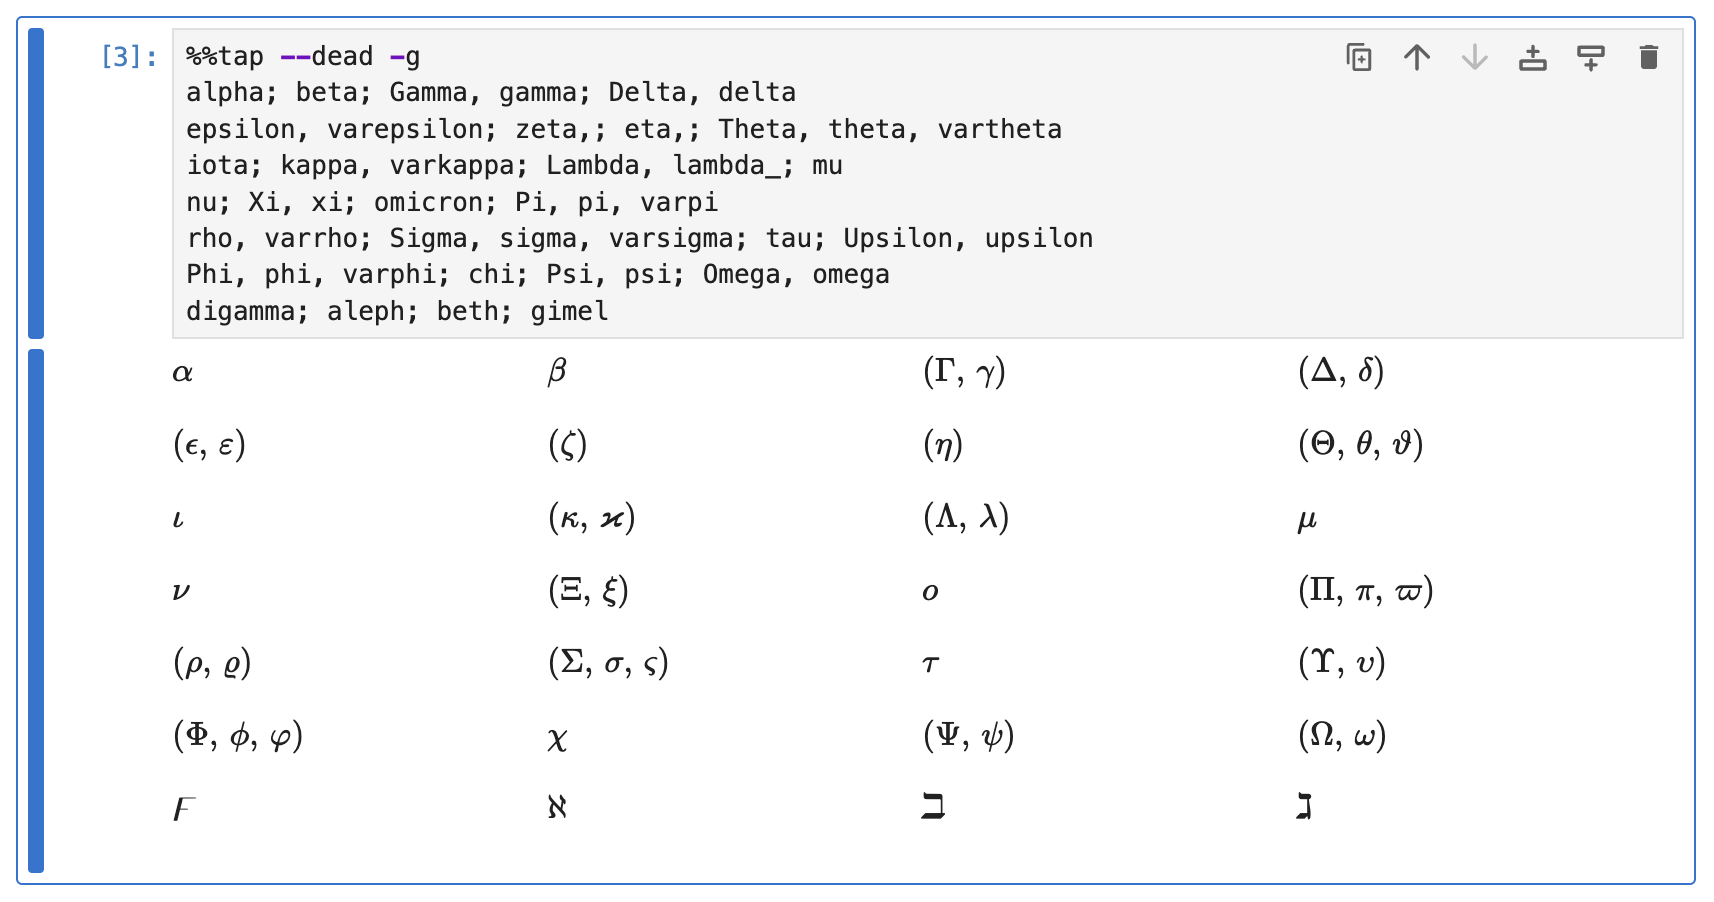
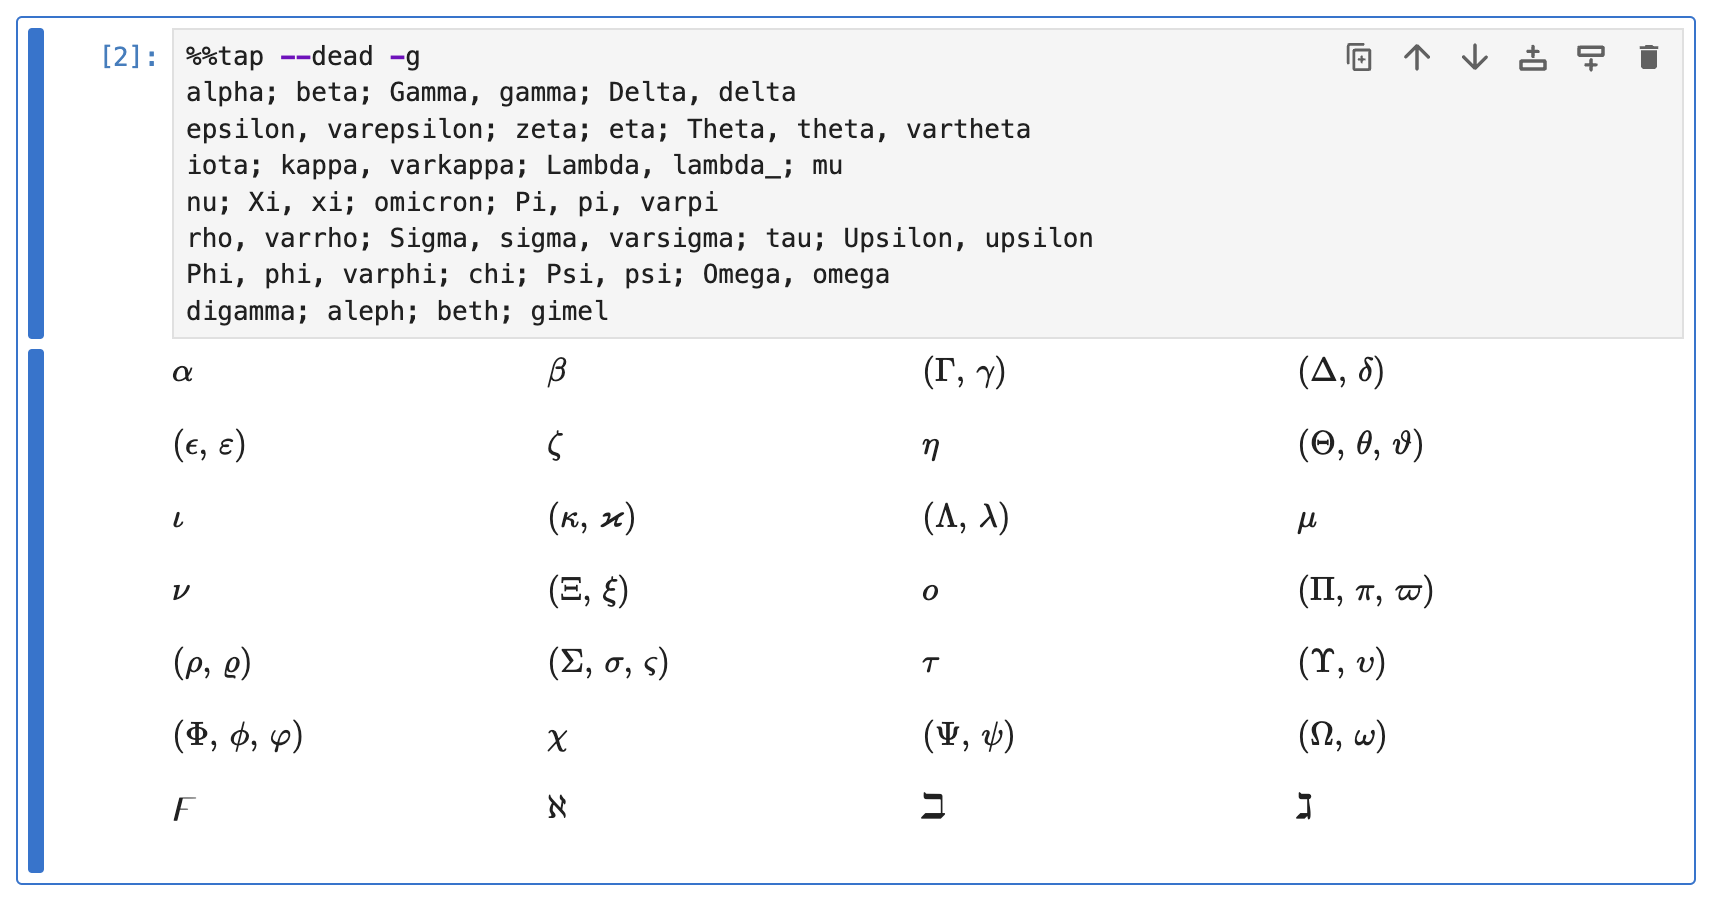
docs(rendering): update variables guide
included attribute access section
updated typos and screenshots
added example usage of config.add_greek_start()

diff --git a/docs/rendering/variables.md b/docs/rendering/variables.md
@@ -51,7 +51,7 @@ When `@use_symbols=True`, Greek letters, accents, and modifier keywords are rend
 
 ### Greek Letters
 
-Python variable name parts that match Greek or Hebrew letter names are replaced with their corresponding symbols. For example, `alpha` becomes $\alpha$, and `Omega` becomes $\Omega$. Note that capital Greek letters resembling Latin letters (e.g., $\Alpha$) are excluded to avoid ambiguity.
+Python variable name parts that match Greek or Hebrew letter names are replaced with their corresponding symbols. For example, `alpha` becomes $\alpha$, and `Omega` becomes $\Omega$. Note that capital Greek letters resembling Latin letters (e.g., A, B, etc.) are excluded.
 
 ```python
 %%tap --dead -g
@@ -69,7 +69,7 @@ These are all the Greek and Hebrew Letter names that are converted when used. Pa
 ```python
 %%tap --dead -g
 alpha; beta; Gamma, gamma; Delta, delta
-epsilon, varepsilon; zeta,; eta,; Theta, theta, vartheta
+epsilon, varepsilon; zeta; eta; Theta, theta, vartheta
 iota; kappa, varkappa; Lambda, lambda_; mu
 nu; Xi, xi; omicron; Pi, pi, varpi
 rho, varrho; Sigma, sigma, varsigma; tau; Upsilon, upsilon
@@ -91,6 +91,13 @@ Base name parts that start with `Delta`, `gamma`, `phi`, and `psi` will have the
 
 This is controlled by the `@greek_starts` config option (a `set`, default is `{"Delta", "gamma", "phi", "psi"}`). To add or remove Greek letters that should be rendered when it appears in the beginning of the base name part, use the functions `config.add_greek_start()` or `config.remove_greek_start()`, respectively.
 
+For example:
+
+```python
+config.add_greek_start("Sigma", "Pi")
+config.remove_hidden_module("gamma", "phi", "psi")
+```
+
 ### Accents and Modifiers
 
 Variable names with specific keywords after an underscore (e.g., `_hat`, `_bar`) are rendered with the corresponding accent or modifier. For instance, `x_hat` becomes $\hat{x}$, `S_star` becomes $S^{*}$ and `f_prime` becomes $f'$.
@@ -110,10 +117,12 @@ These are all the accents and modifiers that can be converted. Paste them in a c
 
 ```python
 %%tap --dead -g
-foo_hat; foo_widehat; foo_bar; foo_widebar; foo_tilde; foo_widetilde;
-foo_dot; foo_ddot; foo_dddot; foo_ddddot; foo_breve; foo_check;
-foo_acute; foo_grave; foo_ring; foo_mat; foo_vec; foo_vec2; foo_widevec2;
-foo_prime; foo_star;
+foo_hat; foo_widehat; foo_bar; foo_widebar;
+foo_tilde; foo_widetilde; foo_dot; foo_ddot;
+foo_dddot; foo_ddddot; foo_breve; foo_check;
+foo_acute; foo_grave; foo_ring; foo_mat;
+foo_vec; foo_vec2; foo_widevec2; foo_prime;
+foo_star; foo_sstar; foo_ssstar; foo_sssstar
 ```
 
 <picture>
@@ -128,6 +137,38 @@ foo_prime; foo_star;
 ### Disabling Symbols
 
 When `@use_symbols=False`, all greek, accent, and modifier keywords will be rendered exactly as they are typed but using a Roman font.
+
+### Attribute Access
+
+Attribute access is rendered the same as you would write it in Python. However, some module names, such as `math`, are skipped from being rendered, leaving only its attributes when displayed by Rubberize:
+
+```python
+import math
+
+class Foo:
+    def __init__(self):
+        self.bar = 42  # Instance attribute
+```
+```python
+%%tap
+foo = Foo()
+foo.bar  # Attribute access
+```
+
+<picture>
+    <source media="(prefers-color-scheme: dark)" srcset="../assets/rendering/variables/attribute_access_dark.png">
+    <source media="(prefers-color-scheme: light)" srcset="../assets/rendering/variables/attribute_access.png">
+    <img alt="Screenshot of attribute access in Rubberize" src="../assets/rendering/variables/attribute_access.png">
+</picture>
+
+Module names that are skipped are controlled by the `@hidden_modules` config option (a `set`, default is `{"math", "sp", "np", "ureg"}` for `math` module, conventional short names for SymPy and NumPy and Pint `UnitRegistry()` object). To add or remove hidden modules, use the functions `config.add_hidden_module()` or `config.remove_hidden_module()`, respectively.
+
+For example:
+
+```python
+config.add_hidden_module("scipy", "foo")
+config.remove_hidden_module("np")
+```
 
 ## What's Next?
 
